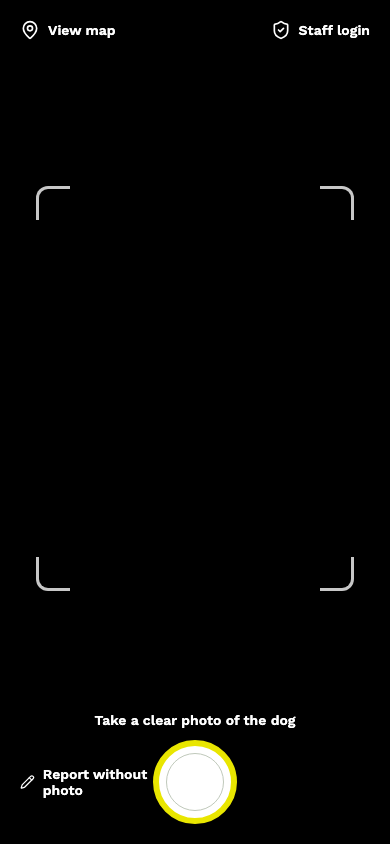
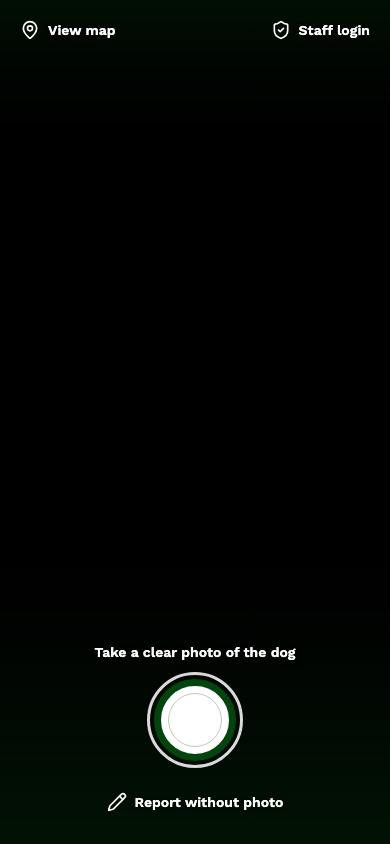
style(design): TD-134 Cámara: degradado verde real, obturador verde, sin recuadro y zoom con pellizco
Scrim con degradado de react-native-svg teñido de verde; obturador con anillo verde y borde blanco; Reportar sin foto en una línea bajo el obturador; se quita el recuadro de encuadre; zoom con dos dedos por PanResponder y la propiedad zoom de CameraView.

diff --git a/screens/CameraScreen.js b/screens/CameraScreen.js
@@ -6,7 +6,8 @@
  */
 import { CameraView, useCameraPermissions } from 'expo-camera';
 import { useTranslation } from 'react-i18next';
-import { ActivityIndicator, Pressable, StyleSheet, Text, View } from 'react-native';
+import { useRef, useState } from 'react';
+import { ActivityIndicator, PanResponder, Pressable, StyleSheet, Text, View } from 'react-native';
 import { useSafeAreaInsets } from 'react-native-safe-area-context';
 
 import DraftQueueBanner from '../components/DraftQueueBanner.js';
@@ -14,16 +15,29 @@ import { Banner, Icon, Scrim } from '../components/ui/index.js';
 import { useCameraCapture } from '../hooks/useCameraCapture.js';
 import { colors, fontFamily, layout, radius, spacing, type } from '../theme/index.js';
 
-/** Four corner marks that frame the dog; purely decorative. */
-function FrameGuide() {
-  return (
-    <View pointerEvents="none" accessible={false} aria-hidden importantForAccessibility="no" style={styles.frame}>
-      <View style={[styles.corner, styles.cornerTL]} />
-      <View style={[styles.corner, styles.cornerTR]} />
-      <View style={[styles.corner, styles.cornerBL]} />
-      <View style={[styles.corner, styles.cornerBR]} />
-    </View>
-  );
+/** Two-finger pinch that drives the camera zoom (0 to 1); one-finger touches fall through to the controls. */
+function usePinchZoom() {
+  const [zoom, setZoom] = useState(0);
+  const zoomRef = useRef(0);
+  const gesture = useRef({ distance: 0, start: 0 });
+  const distanceOf = (touches) => Math.hypot(touches[0].pageX - touches[1].pageX, touches[0].pageY - touches[1].pageY);
+  const responder = useRef(PanResponder.create({
+    onStartShouldSetPanResponder: (event) => event.nativeEvent.touches.length === 2,
+    onMoveShouldSetPanResponder: (event) => event.nativeEvent.touches.length === 2,
+    onPanResponderGrant: (event) => {
+      const { touches } = event.nativeEvent;
+      gesture.current = { distance: touches.length === 2 ? distanceOf(touches) : 0, start: zoomRef.current };
+    },
+    onPanResponderMove: (event) => {
+      const { touches } = event.nativeEvent;
+      if (touches.length !== 2) return;
+      if (!gesture.current.distance) gesture.current = { distance: distanceOf(touches), start: zoomRef.current };
+      const next = Math.min(1, Math.max(0, gesture.current.start + (distanceOf(touches) / gesture.current.distance - 1) * 0.6));
+      zoomRef.current = next;
+      setZoom(next);
+    },
+  })).current;
+  return { zoom, handlers: responder.panHandlers };
 }
 
 /** Text control with an icon, readable over the camera scrim. */
@@ -71,6 +85,7 @@ export default function CameraScreen({
 }) {
   const { t } = useTranslation();
   const insets = useSafeAreaInsets();
+  const pinch = usePinchZoom();
   const [permission, requestPermission] = useCameraPermissions();
   const capture = useCameraCapture({ onPhotoAccepted });
   const feedback = reasonText(t, capture.captureState);
@@ -88,17 +103,19 @@ export default function CameraScreen({
           style={StyleSheet.absoluteFill}
           facing="back"
           mode="picture"
+          zoom={pinch.zoom}
           onCameraReady={() => capture.setCameraReady(true)}
         />
       ) : (
         <View style={styles.cameraFallback} />
       )}
 
+      {hasPermission ? <View style={StyleSheet.absoluteFill} {...pinch.handlers} /> : null}
+
       {hasPermission ? (
         <>
-          <Scrim edge="top" height={150 + insets.top} strength={0.62} />
-          <Scrim edge="bottom" height={230 + insets.bottom} strength={0.7} />
-          <FrameGuide />
+          <Scrim edge="top" height={130 + insets.top} strength={0.55} />
+          <Scrim edge="bottom" height={280 + insets.bottom} strength={0.72} />
           <View style={[styles.topBar, { paddingTop: insets.top + 8 }]}>
             {onOpenMap ? <CameraLink icon="map" label={t('camera.openMap')} onPress={onOpenMap} /> : <View />}
             <View style={styles.topBarRight}>
@@ -162,10 +179,7 @@ export default function CameraScreen({
       {hasPermission ? (
         <View style={[styles.bottomPanel, { paddingBottom: Math.max(insets.bottom, spacing.xl) }]}>
           <Text style={styles.helper}>{t('camera.helper')}</Text>
-          <View style={styles.bottomRow}>
-            <View style={styles.bottomSide}>
-              <CameraLink testID="camera-without-photo" icon="pencil" label={t('camera.withoutPhoto')} disabled={busy} onPress={onReportWithoutPhoto} />
-            </View>
+          <View style={styles.shutterRing}>
             <Pressable
               testID="camera-capture"
               accessibilityRole="button"
@@ -177,8 +191,8 @@ export default function CameraScreen({
             >
               {busy ? <ActivityIndicator accessibilityLabel={t('common.loading')} color={colors.primary} /> : <View style={styles.captureInner} />}
             </Pressable>
-            <View style={styles.bottomSide} />
           </View>
+          <CameraLink testID="camera-without-photo" icon="pencil" label={t('camera.withoutPhoto')} disabled={busy} onPress={onReportWithoutPhoto} />
         </View>
       ) : null}
     </View>
@@ -188,12 +202,6 @@ export default function CameraScreen({
 const styles = StyleSheet.create({
   root: { flex: 1, backgroundColor: '#000' },
   cameraFallback: { ...StyleSheet.absoluteFillObject, backgroundColor: colors.primary },
-  frame: { position: 'absolute', left: 36, right: 36, top: '22%', bottom: '30%' },
-  corner: { position: 'absolute', width: 34, height: 34, borderColor: 'rgba(255,255,255,0.78)' },
-  cornerTL: { top: 0, left: 0, borderTopWidth: 3, borderLeftWidth: 3, borderTopLeftRadius: 12 },
-  cornerTR: { top: 0, right: 0, borderTopWidth: 3, borderRightWidth: 3, borderTopRightRadius: 12 },
-  cornerBL: { bottom: 0, left: 0, borderBottomWidth: 3, borderLeftWidth: 3, borderBottomLeftRadius: 12 },
-  cornerBR: { bottom: 0, right: 0, borderBottomWidth: 3, borderRightWidth: 3, borderBottomRightRadius: 12 },
   topBar: { position: 'absolute', top: 0, left: 0, right: 0, flexDirection: 'row', justifyContent: 'space-between', alignItems: 'center', paddingHorizontal: layout.margin },
   topBarRight: { flexDirection: 'row', alignItems: 'center', gap: spacing.lg },
   link: { flexDirection: 'row', alignItems: 'center', gap: spacing.sm, minHeight: layout.minTouch },
@@ -211,12 +219,11 @@ const styles = StyleSheet.create({
   toastAction: { fontFamily: fontFamily.displayMedium, fontSize: 16, color: colors.primary, marginTop: spacing.xs },
   validating: { position: 'absolute', top: '16%', left: layout.margin, right: layout.margin, flexDirection: 'row', alignItems: 'center', justifyContent: 'center', gap: spacing.md, borderRadius: radius.md, backgroundColor: colors.glass, padding: spacing.lg },
   validatingText: { fontFamily: fontFamily.displayMedium, fontSize: 17, color: colors.onPrimary },
-  bottomPanel: { position: 'absolute', left: 0, right: 0, bottom: 0, gap: spacing.md, paddingHorizontal: layout.margin },
+  bottomPanel: { position: 'absolute', left: 0, right: 0, bottom: 0, alignItems: 'center', gap: spacing.md, paddingHorizontal: layout.margin },
   helper: { fontFamily: fontFamily.label, fontSize: 14, textAlign: 'center', color: colors.onPrimary, textShadowColor: 'rgba(0,0,0,0.55)', textShadowRadius: 4, textShadowOffset: { width: 0, height: 1 } },
-  bottomRow: { flexDirection: 'row', alignItems: 'center', justifyContent: 'space-between' },
-  bottomSide: { flex: 1, alignItems: 'flex-start' },
-  captureButton: { width: 84, height: 84, borderRadius: 42, borderWidth: 6, borderColor: colors.signal, backgroundColor: colors.surface, alignItems: 'center', justifyContent: 'center' },
-  captureInner: { width: 58, height: 58, borderRadius: 29, backgroundColor: colors.surface, borderColor: colors.outlineSoft, borderWidth: 1 },
+  shutterRing: { width: 96, height: 96, borderRadius: 48, borderWidth: 3, borderColor: 'rgba(255,255,255,0.85)', alignItems: 'center', justifyContent: 'center' },
+  captureButton: { width: 82, height: 82, borderRadius: 41, borderWidth: 7, borderColor: colors.primary, backgroundColor: colors.surface, alignItems: 'center', justifyContent: 'center' },
+  captureInner: { width: 54, height: 54, borderRadius: 27, backgroundColor: colors.surface, borderColor: colors.outlineSoft, borderWidth: 1 },
   queueBannerPosition: { position: 'absolute', left: spacing.lg, right: spacing.lg },
   captureDisabled: { opacity: 0.62 }, captureActive: { transform: [{ scale: 0.96 }] },
   pressed: { opacity: 0.7 }, disabled: { opacity: 0.5 },

diff --git a/components/ui/Scrim.js b/components/ui/Scrim.js
@@ -1,21 +1,26 @@
 /**
  * @module components/ui/Scrim
- * Dark gradient over media (camera, maps) built from stacked translucent strips, so it needs no native module.
- * `edge="top"` is darkest at the top; `edge="bottom"` is darkest at the bottom.
+ * Soft tinted gradient over media (camera, maps) drawn with react-native-svg, so it needs no extra native
+ * module. `edge="top"` is darkest at the top; `edge="bottom"` is darkest at the bottom.
  */
 import { StyleSheet, View } from 'react-native';
+import Svg, { Defs, LinearGradient, Rect, Stop } from 'react-native-svg';
 
-const STEPS = 10;
-
-export default function Scrim({ edge = 'top', height = 140, strength = 0.6, style }) {
-  const strips = Array.from({ length: STEPS }, (_, i) => {
-    const t = 1 - i / (STEPS - 1);
-    return strength * t * t;
-  });
-  const ordered = edge === 'top' ? strips : [...strips].reverse();
+export default function Scrim({ edge = 'top', height = 140, strength = 0.6, tint = '#021a06', style }) {
+  const id = `scrim-${edge}`;
+  const stops = edge === 'top'
+    ? [[0, strength], [0.55, strength * 0.35], [1, 0]]
+    : [[0, 0], [0.45, strength * 0.35], [1, strength]];
   return (
     <View pointerEvents="none" accessible={false} aria-hidden importantForAccessibility="no" style={[styles.base, edge === 'top' ? styles.top : styles.bottom, { height }, style]}>
-      {ordered.map((opacity, i) => <View key={i} style={{ flex: 1, backgroundColor: `rgba(0,0,0,${opacity.toFixed(3)})` }} />)}
+      <Svg width="100%" height="100%" preserveAspectRatio="none">
+        <Defs>
+          <LinearGradient id={id} x1="0" y1="0" x2="0" y2="1">
+            {stops.map(([offset, opacity]) => <Stop key={offset} offset={offset} stopColor={tint} stopOpacity={opacity} />)}
+          </LinearGradient>
+        </Defs>
+        <Rect x="0" y="0" width="100%" height="100%" fill={`url(#${id})`} />
+      </Svg>
     </View>
   );
 }

diff --git a/tests/ui/expo-camera-stub.js b/tests/ui/expo-camera-stub.js
@@ -1,7 +1,7 @@
 import React, { useEffect } from 'react';
 import { View } from 'react-native';
 
-export function CameraView({ facing: _facing, mode: _mode, onCameraReady, ...props }) {
+export function CameraView({ facing: _facing, mode: _mode, zoom: _zoom, onCameraReady, ...props }) {
   useEffect(() => {
     onCameraReady?.();
   }, [onCameraReady]);
